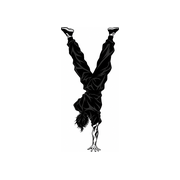
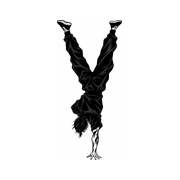
Add files via upload

Changed region(s): [[0.3056, 0.1111, 0.6944, 0.8889]]

diff --git a/sw.js b/sw.js
@@ -1,0 +1,7 @@
+const C='cc-v1';
+self.addEventListener('install',e=>{e.waitUntil(caches.open(C).then(c=>c.addAll(['./','index.html','manifest.webmanifest','icon-192.png','icon-512.png','apple-touch-icon.png'])).then(()=>self.skipWaiting()))});
+self.addEventListener('activate',e=>{e.waitUntil(caches.keys().then(k=>Promise.all(k.filter(x=>x!=C).map(x=>caches.delete(x)))).then(()=>self.clients.claim()))});
+self.addEventListener('fetch',e=>{
+  if(e.request.method!='GET'||new URL(e.request.url).origin!=location.origin)return;
+  e.respondWith(fetch(e.request).then(r=>{const cp=r.clone();caches.open(C).then(c=>c.put(e.request,cp));return r}).catch(()=>caches.match(e.request).then(m=>m||caches.match('index.html'))));
+});

diff --git a/index.html b/index.html
@@ -240,5 +240,6 @@ $('t1').onclick=function(){tab(1)};$('t2').onclick=function(){tab(2)};
 $('dt').value=today();
 render();
 </script>
+<script>if('serviceWorker' in navigator&&location.protocol.indexOf('http')==0){window.addEventListener('load',function(){navigator.serviceWorker.register('sw.js').catch(function(){})})}</script>
 </body>
 </html>
